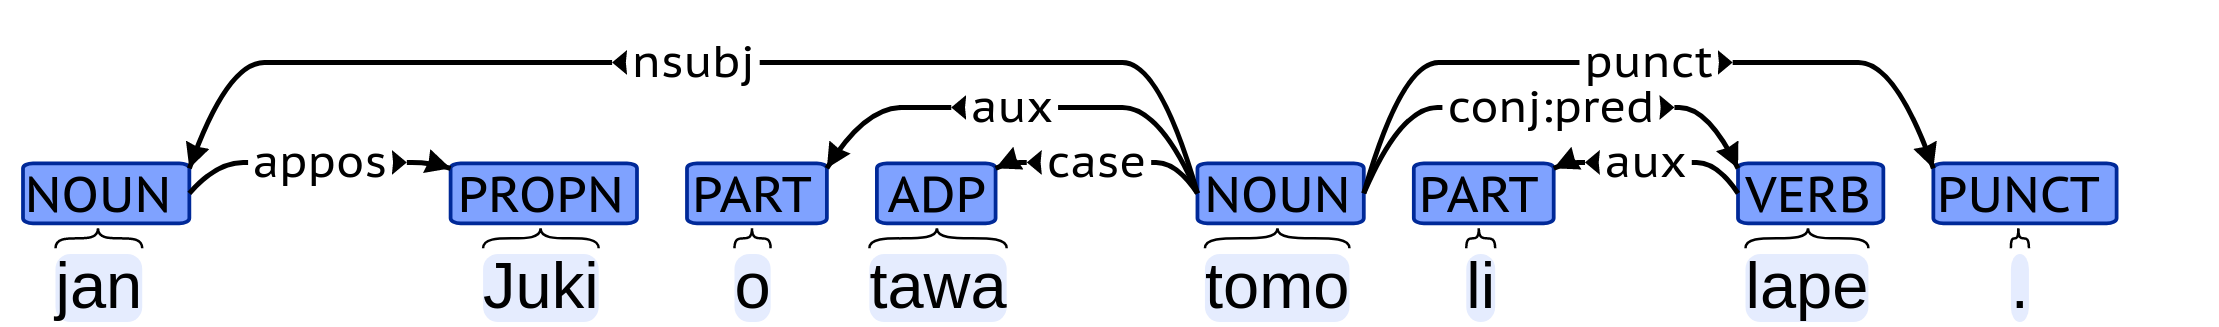
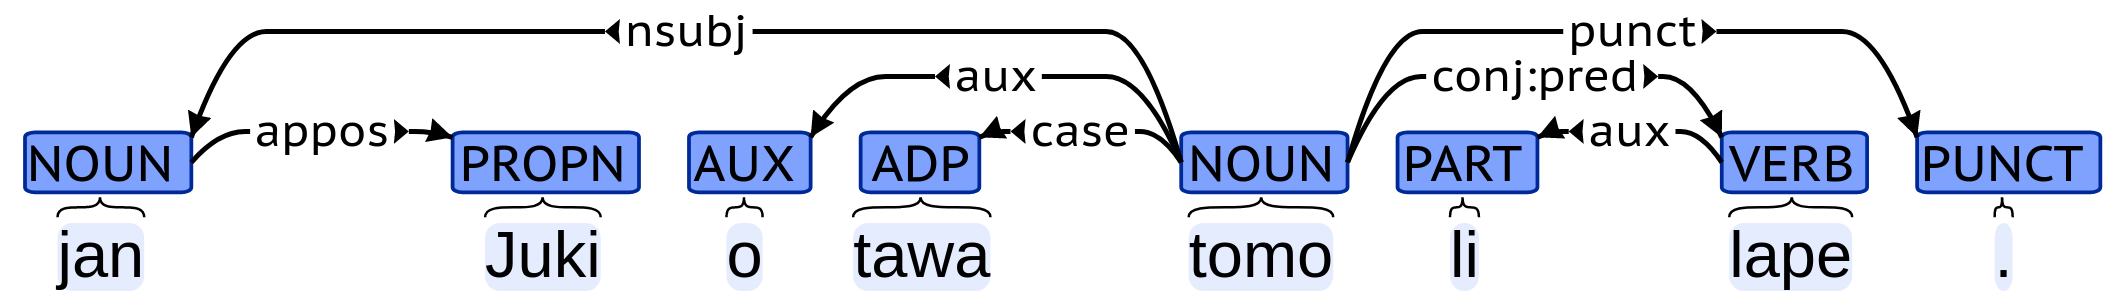
add

diff --git a/image/vis.html b/image/vis.html
@@ -524,14 +524,14 @@
 0	ROOT					0	root
 1	jan		NOUN			4	nsubj
 2	mute		ADJ			1	amod
-3	o		PART			4	aux
+3	o		AUX			4	aux
 4	musi		VERB			0	root
 5	.		PUNCT			4	punct
 </code></pre>
 
 <pre><code class="language-conllu">
 0	ROOT					0	root
-1	o		PART			2	aux
+1	o		AUX			2	aux
 2	kute		VERB			0	root
 3	.		PUNCT			2	punct
 </code></pre>
@@ -539,7 +539,7 @@
 <pre><code class="language-conllu">
 0	ROOT					0	root
 1	sina		PRON			3	nsubj
-2	o		PART			3	aux
+2	o		AUX			3	aux
 3	moku		VERB			0	root
 4	mute		ADV			3	advmod
 5	.		PUNCT			3	punct
@@ -549,7 +549,7 @@
 0	ROOT					0	root
 1	jan		NOUN			5	nsubj
 2	Juki		PROPN			1	appos
-3	o		PART			5	aux
+3	o		AUX			5	aux
 4	tawa		ADP			5	case
 5	tomo		NOUN			0	root
 6	li		PART			7	aux

diff --git a/ud.md b/ud.md
@@ -1,3 +1,5 @@
+この記事は，[語学・言語学・言語創作 Advent Calendar 2021](https://adventar.org/calendars/6237) の 2 日目です．
+
 # Toki Pona UD
 
 困ったことに，世の中にはたくさんの言語があります．
@@ -648,11 +650,28 @@ oは名詞句にauxで係り，呼びかけの名詞句は文の主辞にvocativ
 
 「私は大阪に行きたい」
 
+トキポナには，kama「〜になる，〜する（未来）」, ken「〜できる」, wile「〜したい」, lukin「〜しようとする」．sona「〜する方法を知っている」の助動詞があります．
+この他に，open「〜し始める」, pini「〜し終える」を助動詞として用いる人もいます．
+
+助動詞kama, ken, wile, lukin, sonaに共通しているのは，これらが付くと，その動作・状態が非事実となることです．
+"kama sona"「知ることになる = 学ぶ」は，ある時点から比較して未来の時点で知っているという状態になることを意味し，基準となる時点では"sona"「知っている」ことが非事実になります．
+"ken moku"「食べることができる」は，能力・機会的に食べることが可能なのであって，食べていることについては言及しておらず，"sona"「食べる」は非事実です．
+"wile moku"「食べたい」も，希望・願望を表し，"moku"が非事実です．
+"lukin jo"「持とうとする = 探す」は，現時点では"jo"「持つ」が非事実でないため，持とうとしていることを意味します．
+"sona tawa"「行く方法を知っている」は，行く方法は知っているが，行くかどうかは言及しておらず，"tawa"「行く」が非事実です．
+トキポナでは，印欧語で，直説法が事実・その他の法（接続，命令など）が非事実を表すというようなモダリティが，助動詞で表されています．
+一方で，open, piniは，動作の開始・終了というアスペクトを表しており，事実を言及しています．
+
+助動詞は，その品詞がAUXで，係り受けは述部の主辞にauxで係ります．
+
 ### jan Jumi li ken ala ken moku e kala?
 
 ![jan Jumi li ken ala ken moku e kala](./image/jan_Jumi_li_ken_ala_ken_moku_e_kala.png)
 
 「ゆみさんは魚を食べられますか」
+
+助動詞を用いた疑問文を作る場合，助動詞の方で反復疑問の形を用います．
+反復疑問と同じように，conj:repを用いて係受けを表します．
 
 ## 命令
 
@@ -662,11 +681,21 @@ oは名詞句にauxで係り，呼びかけの名詞句は文の主辞にvocativ
 
 「皆さまどうぞお楽しみください」
 
+命令は助動詞oを述部に先行させることで表します．
+oは呼びかけの時は，品詞が小辞PARTでした．
+しかし，命令を表す場合，モダリティを表す働きがあるため，助動詞とすることにしました．
+係り受けはauxです．
+
+主語は，命令のoの前に置かれます．この時，小辞liは用いません．
+小辞liは主語と述部を分ける働きがありますが，oがこの役割を引き受けているため，liが不要になったものと解釈することができます．
+
 ### o kute.
 
 ![o kute](./image/o_kute.png)
 
 「聞いてください」
+
+命令文は，主語を省略することができます．その場合，主語は2人称のsinaになります．
 
 ### sina o moku mute.
 
@@ -674,18 +703,24 @@ oは名詞句にauxで係り，呼びかけの名詞句は文の主辞にvocativ
 
 「あなたはたくさん食べてください」
 
+2人称のsinaが主語の命令文です．
+
 ### jan Juki o tawa tomo li lape.
 
 ![jan Juki o tawa tomo li lape](./image/jan_Juki_o_tawa_tomo_li_lape.png)
 
 「ゆきさんは帰って寝てください」
 
+命令文で述部を並置する方法については，トキポナ公式本で詳しい言及はありません．
+ただ，小辞liを用いて述部同士を分ける方法がよく用いられています．
+この例では，述部"tawa tomo"のモダリティがoで表されており，述部"lape"は主辞にconj:predで係り，liで前の述部と自身を分けています．
+
 ## わかったこと・おもったこと・わからないこと・つぎにやること
 
-自分は普段，計算言語学・自然言語処理をやっていて，その知見を人工言語に活かせないかと考えています．
+自分は普段，計算言語学・自然言語処理をやっていて，その知見を人工言語・架空世界創作に活かせないかと考えています．
 ただ，統計的な言語処理には，十分な量の言語データが必要であり，さらに，言語毎の知見が必要となる場合もあります．
 世の中の人工言語の多く，特に架空世界創作に用いられる言語は，そのようなことが可能な状況にありません．
-そのため，統計データが少ない中架空言語に対して，計算言語学の知見を応用するには，一体，どうすればいいのだろうかという疑問が起こりました．
+そのため，統計データが少ない架空言語に対して，計算言語学の知見を応用するには，一体，どうすればいいのだろうかという疑問が起こりました．
 この問題を検証するためには，ある程度，架空言語というものを簡略化して考える必要があります．
 語彙の限られた言語であるトキポナは，かんたんな言語であると考えられるため，架空言語に計算言語学の知見を応用する最初の対象とすることに決めました．
 
@@ -736,6 +771,4 @@ Universal Dependencyについての疑問点等があれば，積極的に答え
 ≡╹ω╹≡ さいごまでよんでくれて ≡╹ω╹≡
 
 ≡╹ω╹≡ ありがとうございました ≡╹ω╹≡
-
-
 
